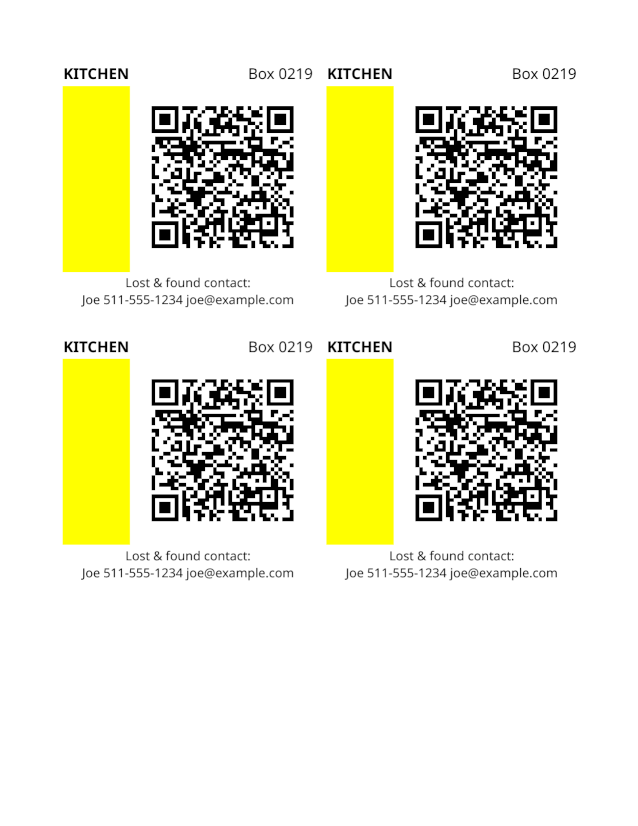
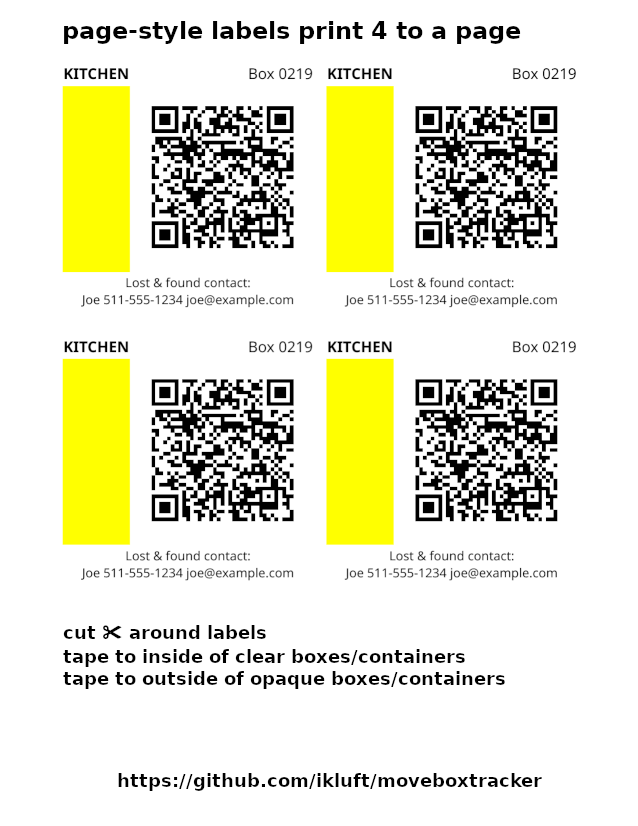
add bagtag label exampel to README.md

Changed region(s): [[0.0893, 0.7567, 0.8041, 0.8475], [0.0893, 0.0303, 0.8339, 0.0605], [0.1787, 0.9383, 0.8636, 0.9685]]

diff --git a/README.md b/README.md
@@ -32,6 +32,7 @@ Tables in the SQLite database:
 * uri_user: name of a user as a namespace for URIs for scanning, who did each scan
 
 Labels are printed with data from a query of the tables move_project, moving_box, room & uri_user.
+There are two label formats: 4-up on a page, or a baggage tag.
 
 Features of mobile app (upcoming):
 * Android app
@@ -39,9 +40,12 @@ Features of mobile app (upcoming):
 * scans a batch of boxes into local SQLite db
 * exports SQLite db for merge into central CLI-managed db
 * maybe future expansion to control central db on Android if others want to help with that
-* no plans for an iOS app unless others want to help with that
 
-![example moving label printout page](doc/label-pdf-example.png "example moving label printout page")
+![example moving label printout page](doc/label-pdf-example.png "example page-style moving label printout")
+
+![example moving label bagtag format](doc/bagtag-labels.png "example baggage tag style moving label")
+
+There are currently no plans for an iOS app unless others want to help develop and maintain it.
 
 ## Command-line usage
 
